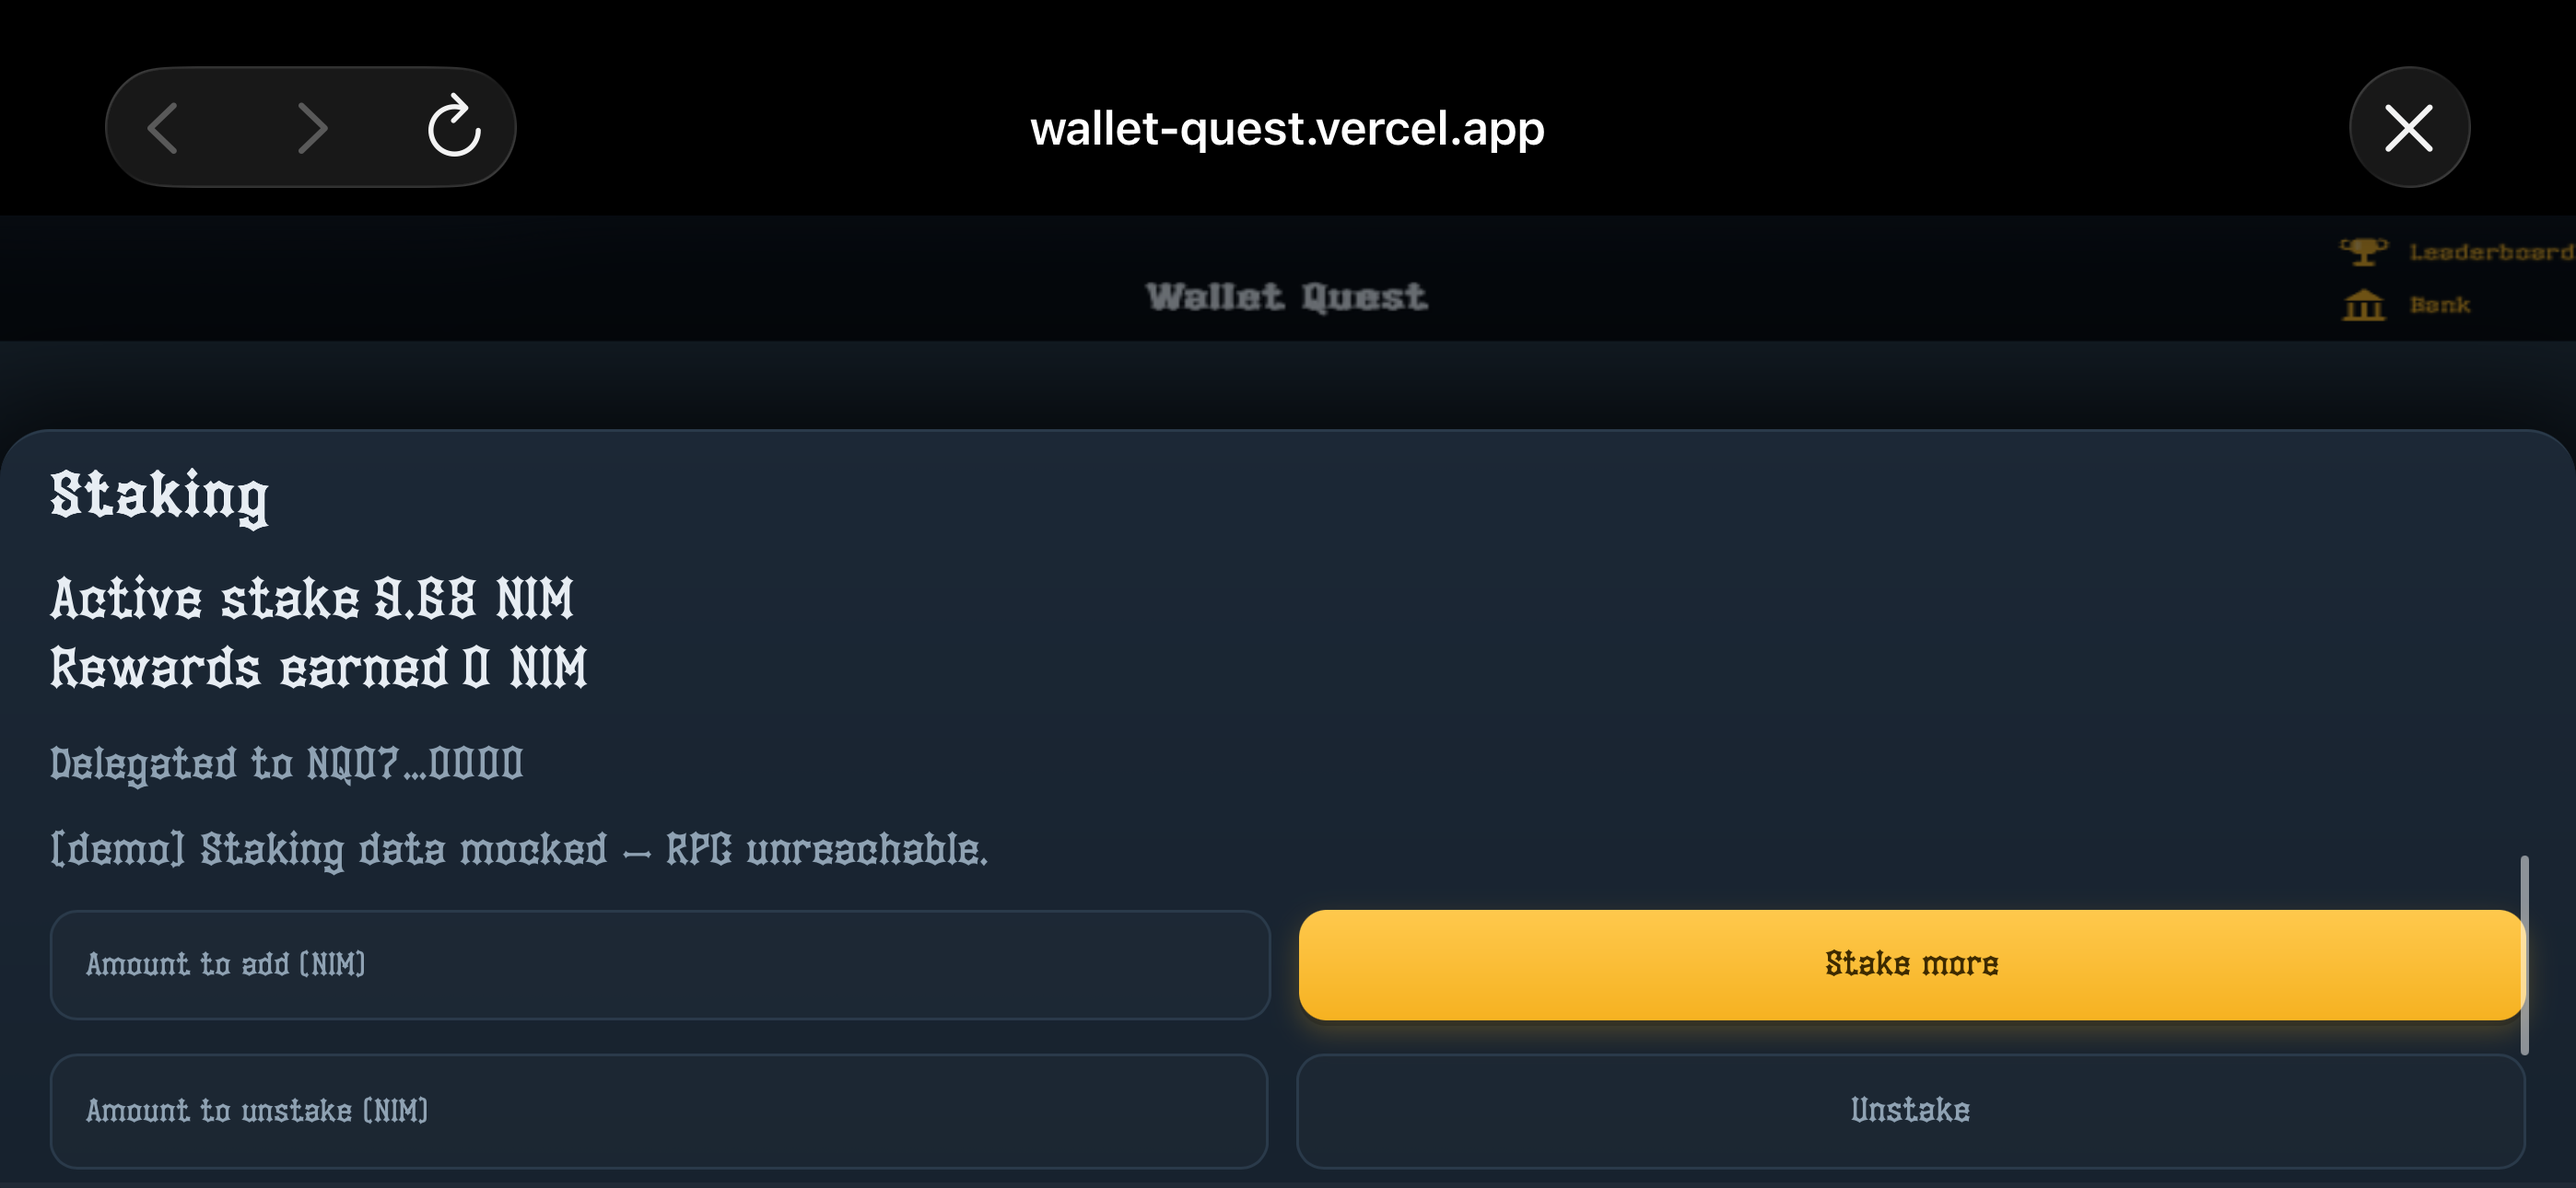
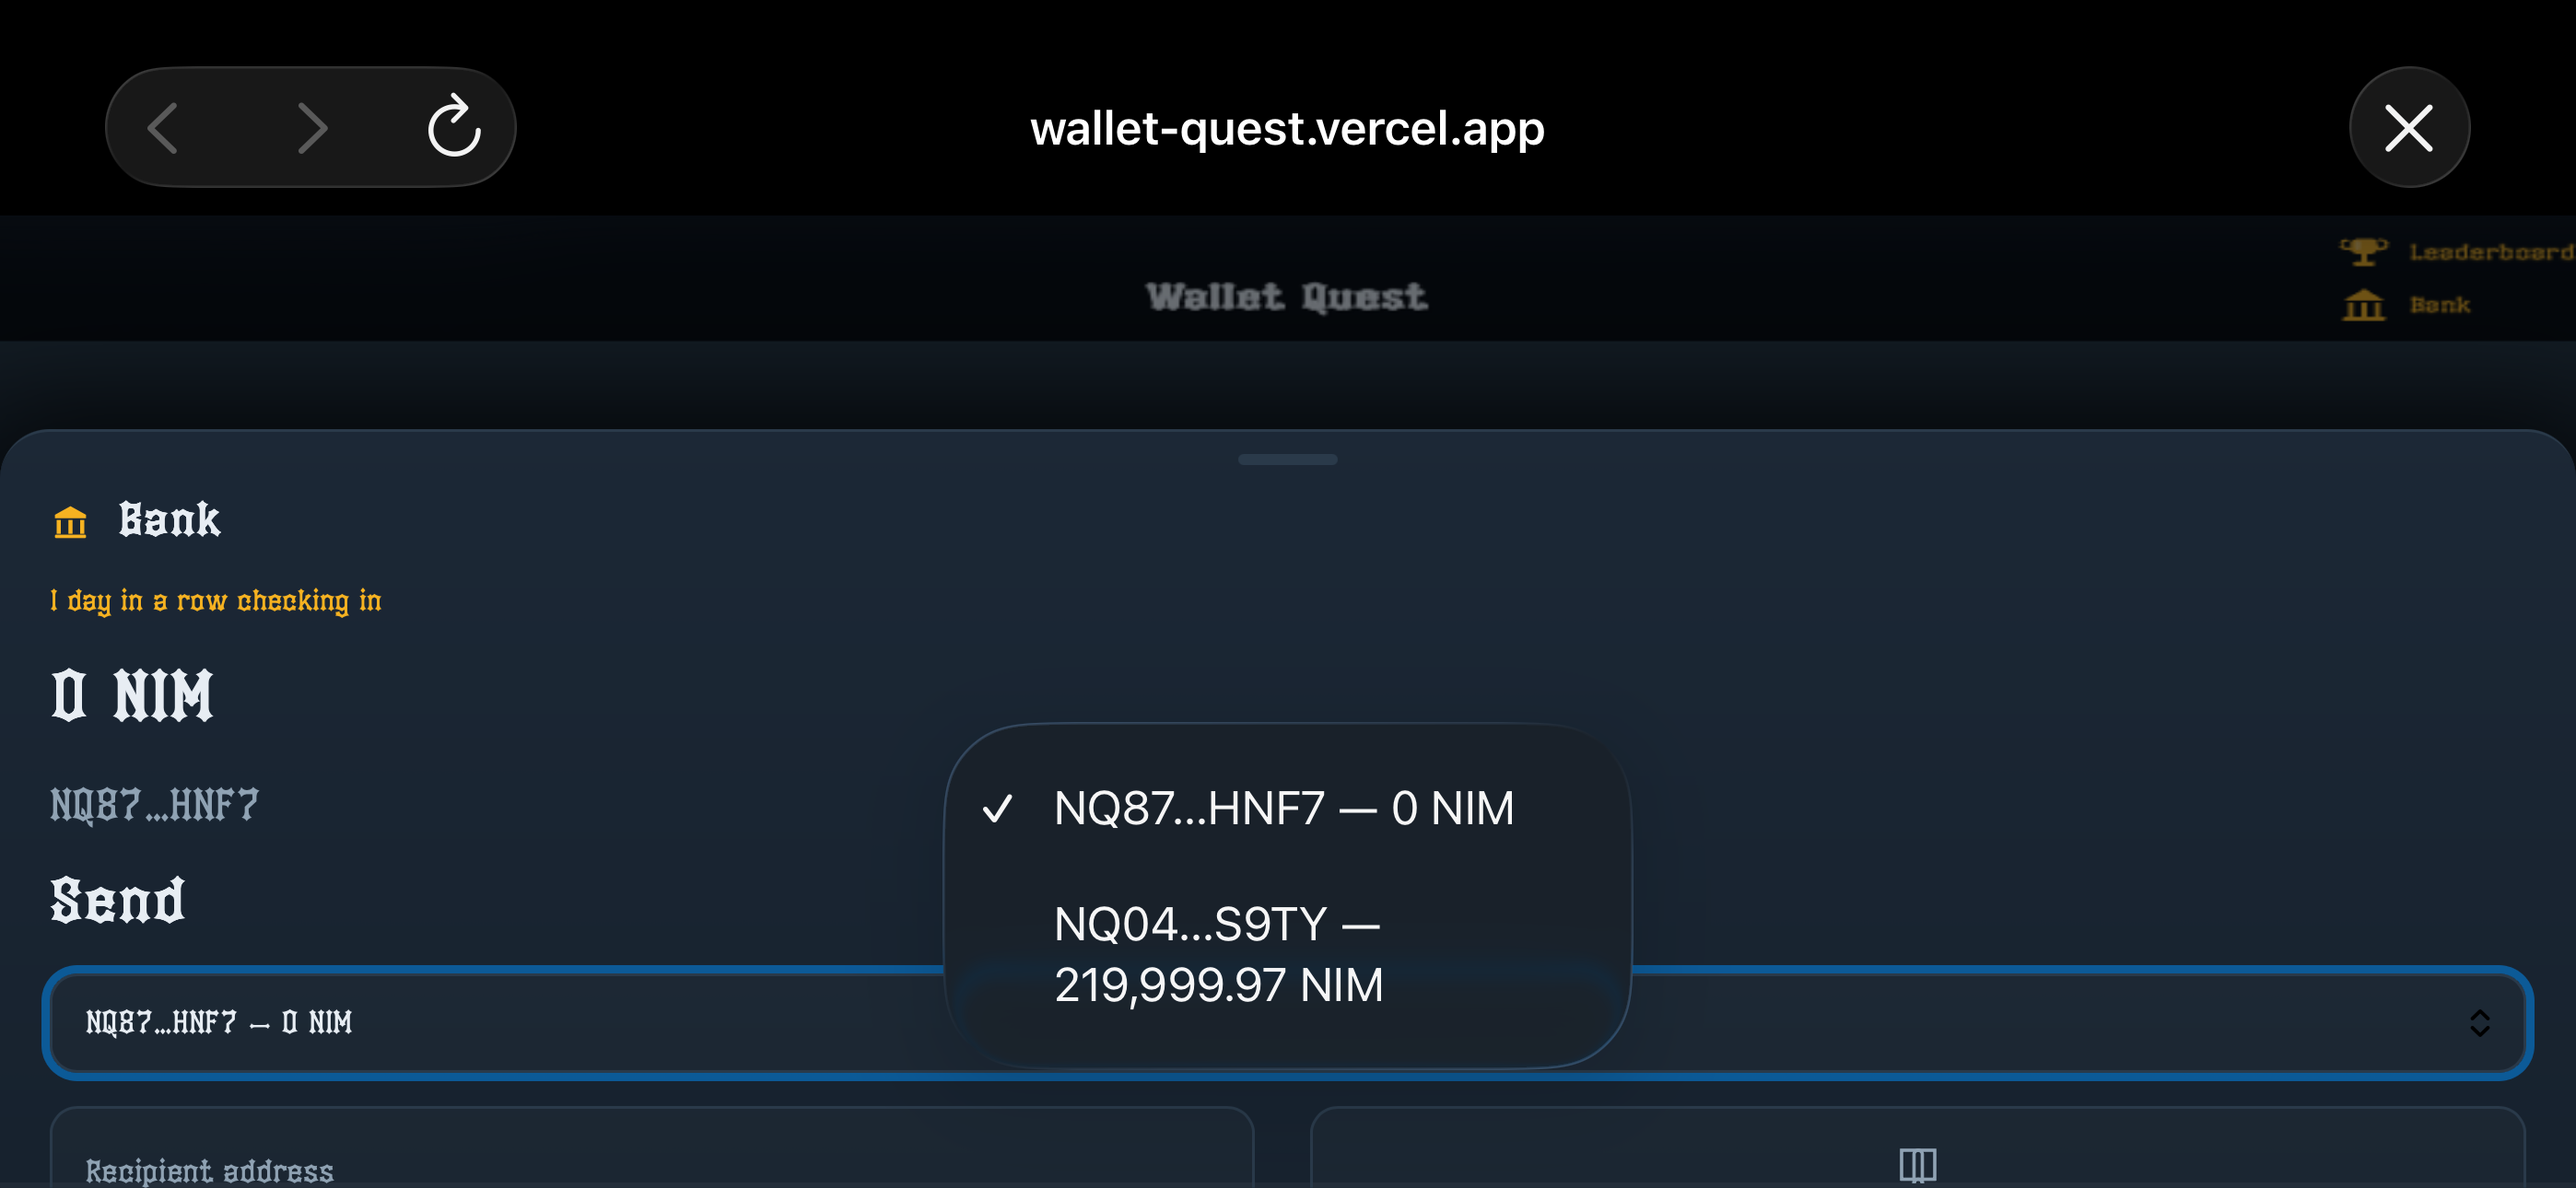
Add submission: Wallet quest

diff --git a/cycle1/Imdavyking/README.md b/cycle1/Imdavyking/README.md
@@ -13,7 +13,7 @@
 | X account | _Not provided — optional_ |
 | Contact email | yungdynamic53@gmail.com |
 | GitHub login | @Imdavyking |
-| Submitted at | 2026-07-31T23:51:24.588Z |
+| Submitted at | 2026-07-31T23:59:58.000Z |
 
 ## Links
 
